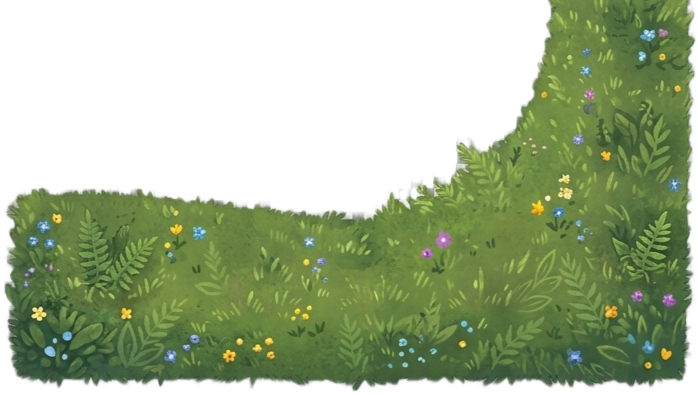
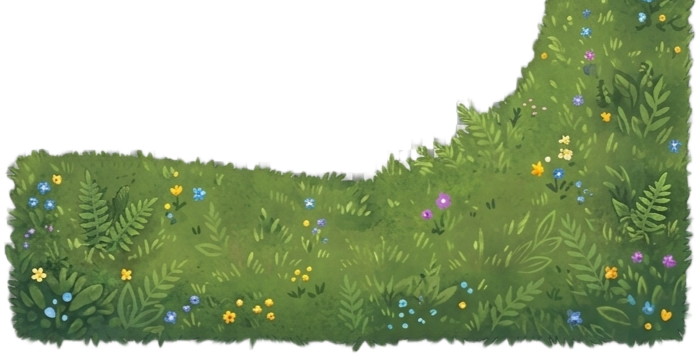
TableReservation: crop grass additional 10% from top (again)

Changed region(s): [[0.0, 0.0, 1.0, 0.986]]

diff --git a/TableReservation.php b/TableReservation.php
@@ -1111,7 +1111,7 @@ if (($_GET['ajax'] ?? '') === 'tg_state_get') {
       height: 900px;
       transform: scale(1.1);
       transform-origin: right bottom;
-      background: url("/links/grass_corner_1_7.png?v=20260407_1726") no-repeat right bottom / 850px auto;
+      background: url("/links/grass_corner_1_7.png?v=20260407_1728") no-repeat right bottom / 850px auto;
       pointer-events: none;
       z-index: 1;
       filter: drop-shadow(0 18px 22px rgba(0,0,0,0.22));
